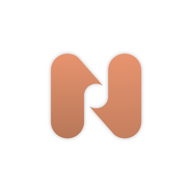
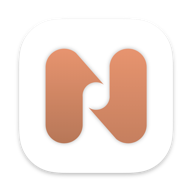
Icona Mac in stile macOS 11 (squircle 824 su tela trasparente), iPhone ripristinata, maskable a parte

diff --git a/sw.js b/sw.js
@@ -1,7 +1,7 @@
 /* Service worker — Gestionale P.IVA
    Strategia: network-first per index.html (così gli aggiornamenti arrivano subito),
    cache-first per il resto. Permette di aprire l'app anche offline. */
-const CACHE = 'gestionale-piva-v15';
+const CACHE = 'gestionale-piva-v16';
 const ASSETS = ['.', 'index.html', 'manifest.json', 'icons/icon-192.png', 'icons/icon-512.png', 'icons/apple-touch-icon.png'];
 
 self.addEventListener('install', e => {
